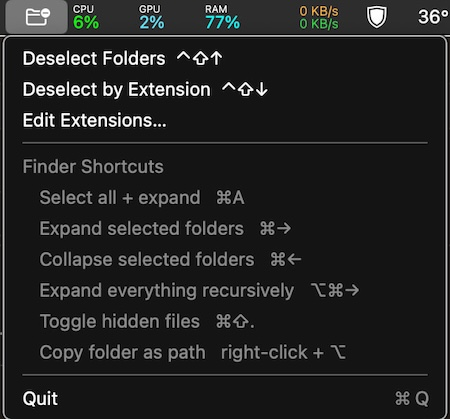
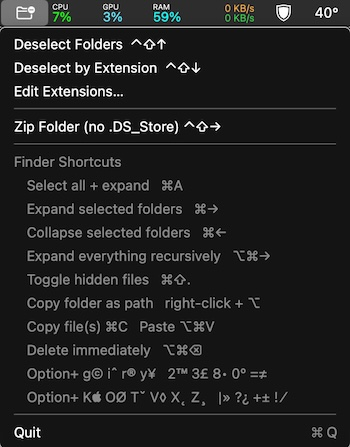
zip exluding .DS_Store

Changed region(s): [[0.0, 0.0, 1.0, 1.0], [0.6571, 0.5585, 0.7714, 0.5895]]

diff --git a/main.swift b/main.swift
@@ -7,8 +7,10 @@ class AppDelegate: NSObject, NSApplicationDelegate {
 
     var hotKeyRefFolders: EventHotKeyRef?
     var hotKeyRefExtensions: EventHotKeyRef?
+    var hotKeyRefZip: EventHotKeyRef?
     let hotKeyIDFolders = EventHotKeyID(signature: OSType(0x44534C46), id: 1)    // ⌃⇧↑
     let hotKeyIDExtensions = EventHotKeyID(signature: OSType(0x44534C46), id: 2) // ⌃⇧↓
+    let hotKeyIDZip = EventHotKeyID(signature: OSType(0x44534C46), id: 3)        // ⌃⇧→
 
     let defaults = UserDefaults.standard
     let extensionsKey = "deselectExtensions"
@@ -25,6 +27,9 @@ class AppDelegate: NSObject, NSApplicationDelegate {
         if let ref = hotKeyRefExtensions {
             UnregisterEventHotKey(ref)
         }
+        if let ref = hotKeyRefZip {
+            UnregisterEventHotKey(ref)
+        }
     }
 
     func setupStatusItem() {
@@ -39,6 +44,8 @@ class AppDelegate: NSObject, NSApplicationDelegate {
         menu.addItem(NSMenuItem(title: "Deselect by Extension  ⌃⇧↓", action: #selector(runDeselectExtensions), keyEquivalent: ""))
         menu.addItem(NSMenuItem(title: "Edit Extensions…", action: #selector(editExtensions), keyEquivalent: ""))
         menu.addItem(NSMenuItem.separator())
+        menu.addItem(NSMenuItem(title: "Zip Folder (no .DS_Store) ⌃⇧→", action: #selector(runZipFolder), keyEquivalent: ""))
+        menu.addItem(NSMenuItem.separator())
 
         let referenceTitle = NSMenuItem(title: "Finder Shortcuts", action: nil, keyEquivalent: "")
         referenceTitle.isEnabled = false
@@ -50,7 +57,11 @@ class AppDelegate: NSObject, NSApplicationDelegate {
             ("Collapse selected folders", "⌘←"),
             ("Expand everything recursively", "⌥⌘→"),
             ("Toggle hidden files", "⌘⇧."),
-            ("Copy folder as path", "right-click + ⌥")
+            ("Copy folder as path", "right-click + ⌥"),
+            ("Copy file(s) ⌘C", "Paste ⌥⌘V"),
+            ("Delete immediately", "⌥⌘⌫"),
+            ("Option+ g© iˆ r® y¥", "2™ 3£ 8• 0º =≠"),
+            ("Option+ K OØ Tˇ V◊ X˛ Z¸", "|» ?¿ +±"),
         ]
 
         for (label, keys) in shortcuts {
@@ -79,16 +90,22 @@ class AppDelegate: NSObject, NSApplicationDelegate {
             GetEventParameter(event, EventParamName(kEventParamDirectObject), EventParamType(typeEventHotKeyID), nil, MemoryLayout<EventHotKeyID>.size, nil, &hkID)
 
             let appDelegate = Unmanaged<AppDelegate>.fromOpaque(userData!).takeUnretainedValue()
-            if hkID.id == 1 {
+            switch hkID.id {
+            case 1:
                 appDelegate.runDeselectFolders()
-            } else if hkID.id == 2 {
+            case 2:
                 appDelegate.runDeselectExtensions()
+            case 3:
+                appDelegate.runZipFolder()
+            default:
+                break
             }
             return noErr
         }, 1, &eventType, Unmanaged.passUnretained(self).toOpaque(), nil)
 
         RegisterEventHotKey(UInt32(kVK_UpArrow), UInt32(controlKey | shiftKey), hotKeyIDFolders, GetApplicationEventTarget(), 0, &hotKeyRefFolders)
         RegisterEventHotKey(UInt32(kVK_DownArrow), UInt32(controlKey | shiftKey), hotKeyIDExtensions, GetApplicationEventTarget(), 0, &hotKeyRefExtensions)
+        RegisterEventHotKey(UInt32(kVK_RightArrow), UInt32(controlKey | shiftKey), hotKeyIDZip, GetApplicationEventTarget(), 0, &hotKeyRefZip)
     }
 
     @objc func runDeselectFolders() {
@@ -97,6 +114,10 @@ class AppDelegate: NSObject, NSApplicationDelegate {
 
     @objc func runDeselectExtensions() {
         deselectByExtension(getSavedExtensions())
+    }
+
+    @objc func runZipFolder() {
+        zipSelectedFolder()
     }
 
     @objc func editExtensions() {
@@ -197,6 +218,83 @@ func deselectByExtension(_ extensions: [String]) {
     }
 }
 
+func zipSelectedFolder() {
+    guard let folderPaths = getSelectedFolderPaths() else {
+        showErrorAlert(
+            title: "Zip Failed",
+            message: "Could not read Finder's selection. Make sure Automation access is granted: System Settings → Privacy & Security → Automation → deselectfolders → Finder."
+        )
+        return
+    }
+
+    guard folderPaths.count == 1 else {
+        if folderPaths.isEmpty {
+            showErrorAlert(title: "No Folder Selected", message: "Select exactly one folder in Finder, then try again.")
+        } else {
+            showErrorAlert(title: "Too Many Folders Selected", message: "Select exactly one folder. You currently have \(folderPaths.count) folders selected.")
+        }
+        return
+    }
+
+    let folderURL = URL(fileURLWithPath: folderPaths[0])
+    let folderName = folderURL.lastPathComponent
+    let zipName = "\(folderName).zip"
+
+    let process = Process()
+    process.executableURL = URL(fileURLWithPath: "/usr/bin/zip")
+    process.currentDirectoryURL = folderURL
+    process.arguments = ["-r", zipName, ".", "-x", "*.DS_Store", "-x", "*__MACOSX*", "-x", zipName]
+
+    let pipe = Pipe()
+    process.standardOutput = pipe
+    process.standardError = pipe
+
+    do {
+        try process.run()
+        process.waitUntilExit()
+        if process.terminationStatus == 0 {
+            showInfoAlert(title: "Zipped", message: "Created \(zipName) inside \(folderName)")
+        } else {
+            let data = pipe.fileHandleForReading.readDataToEndOfFile()
+            let output = String(data: data, encoding: .utf8) ?? "Unknown error"
+            showErrorAlert(title: "Zip Failed", message: output)
+        }
+    } catch {
+        showErrorAlert(title: "Zip Failed", message: error.localizedDescription)
+    }
+}
+
+func getSelectedFolderPaths() -> [String]? {
+    let script = """
+    tell application "Finder"
+        set theSelection to selection
+        set folderPaths to {}
+        repeat with theItem in theSelection
+            if (class of theItem is folder) then
+                set end of folderPaths to (POSIX path of (theItem as alias))
+            end if
+        end repeat
+        return folderPaths
+    end tell
+    """
+    guard let appleScript = NSAppleScript(source: script) else { return nil }
+    var errorDict: NSDictionary?
+    let result = appleScript.executeAndReturnError(&errorDict)
+    if errorDict != nil {
+        return nil
+    }
+
+    var paths: [String] = []
+    if result.numberOfItems > 0 {
+        for i in 1...result.numberOfItems {
+            if let item = result.atIndex(i), let str = item.stringValue {
+                paths.append(str)
+            }
+        }
+    }
+    return paths
+}
+
 func showAccessibilityAlert() {
     let alert = NSAlert()
     alert.messageText = "Accessibility Permission Required"
@@ -206,6 +304,24 @@ func showAccessibilityAlert() {
     if alert.runModal() == .alertFirstButtonReturn {
         NSWorkspace.shared.open(URL(string: "x-apple.systempreferences:com.apple.preference.security?Privacy_Accessibility")!)
     }
+}
+
+func showErrorAlert(title: String, message: String) {
+    let alert = NSAlert()
+    alert.alertStyle = .warning
+    alert.messageText = title
+    alert.informativeText = message
+    alert.addButton(withTitle: "OK")
+    alert.runModal()
+}
+
+func showInfoAlert(title: String, message: String) {
+    let alert = NSAlert()
+    alert.alertStyle = .informational
+    alert.messageText = title
+    alert.informativeText = message
+    alert.addButton(withTitle: "OK")
+    alert.runModal()
 }
 
 func isFolder(_ row: AXUIElement) -> Bool {

diff --git a/README.md b/README.md
@@ -10,6 +10,7 @@ your selection.
 
 - `⌃⇧↑` — Deselect folders from current selection
 - `⌃⇧↓` — Deselect files matching configured extensions (default: jpg, pdf)
+- `⌃⇧→` — zip folder excluding hidden MacOS files .DS_Store,  __MACOSX*
 
 Edit the extension list from the menu bar icon → "Edit Extensions…"
 
@@ -25,6 +26,10 @@ xattr -d com.apple.quarantine /Applications/deselectfolders.app
 
 Grant Accessibility access when prompted
 (System Settings → Privacy & Security → Accessibility).
+zip folder wants access to control Finder
+```bash
+zip -r dir.zip . -x "*.DS_Store" -x "*__MACOSX*"
+```
 
 ## Requirements to Build and Install
 
